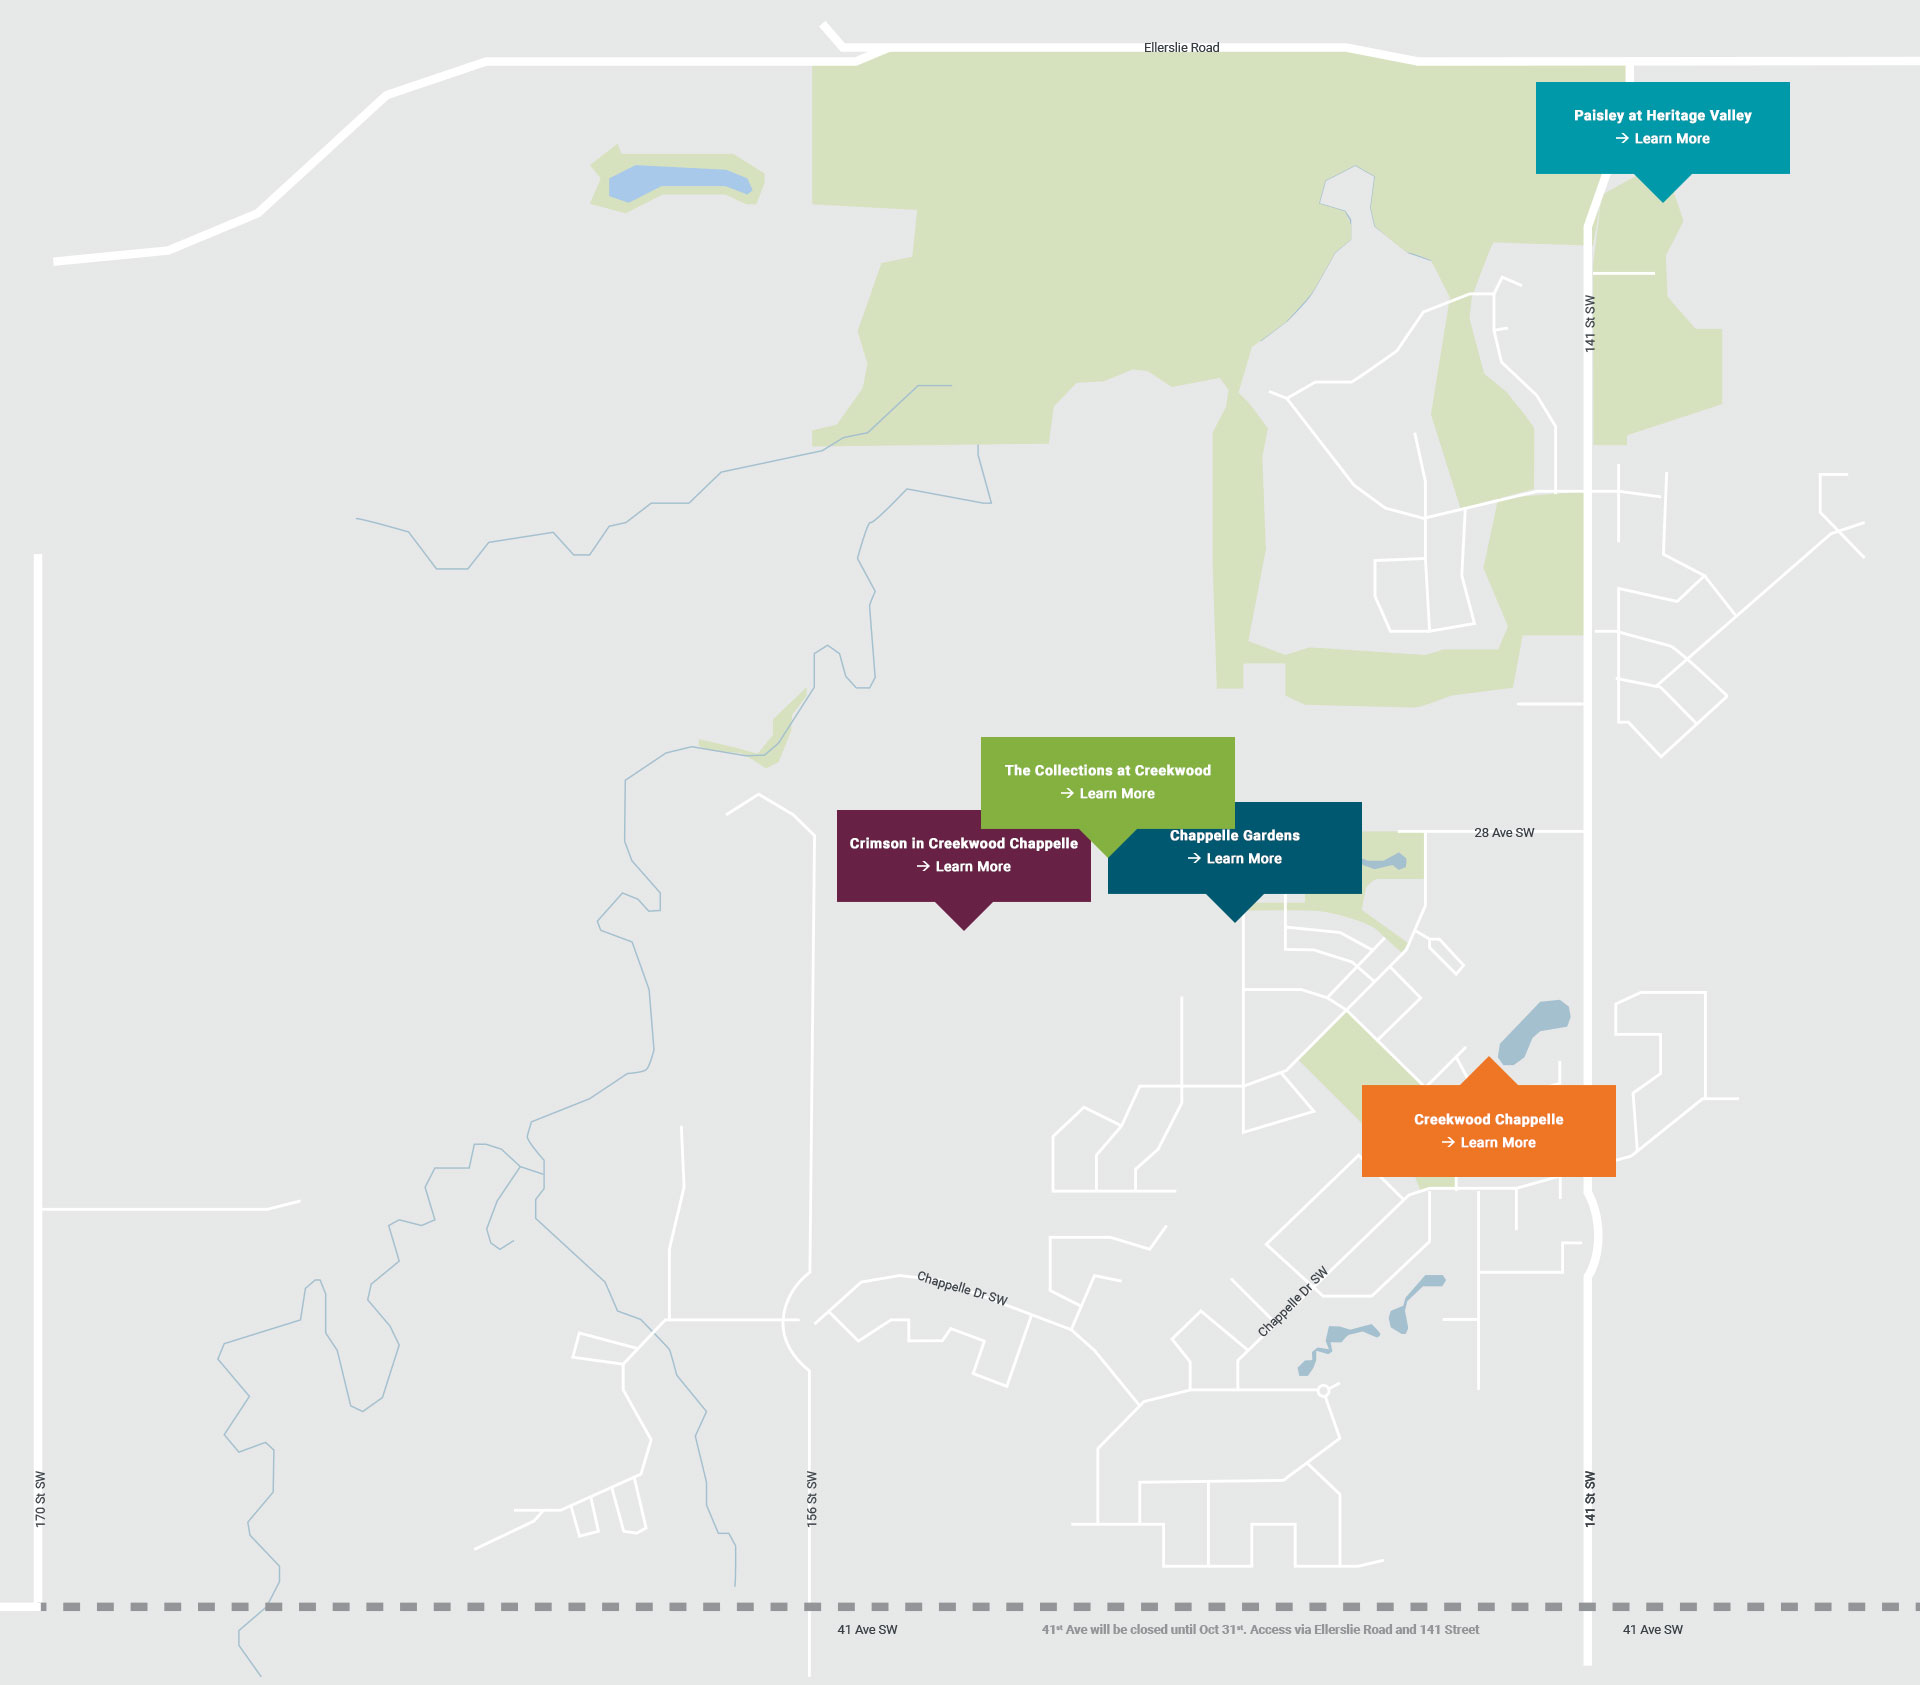
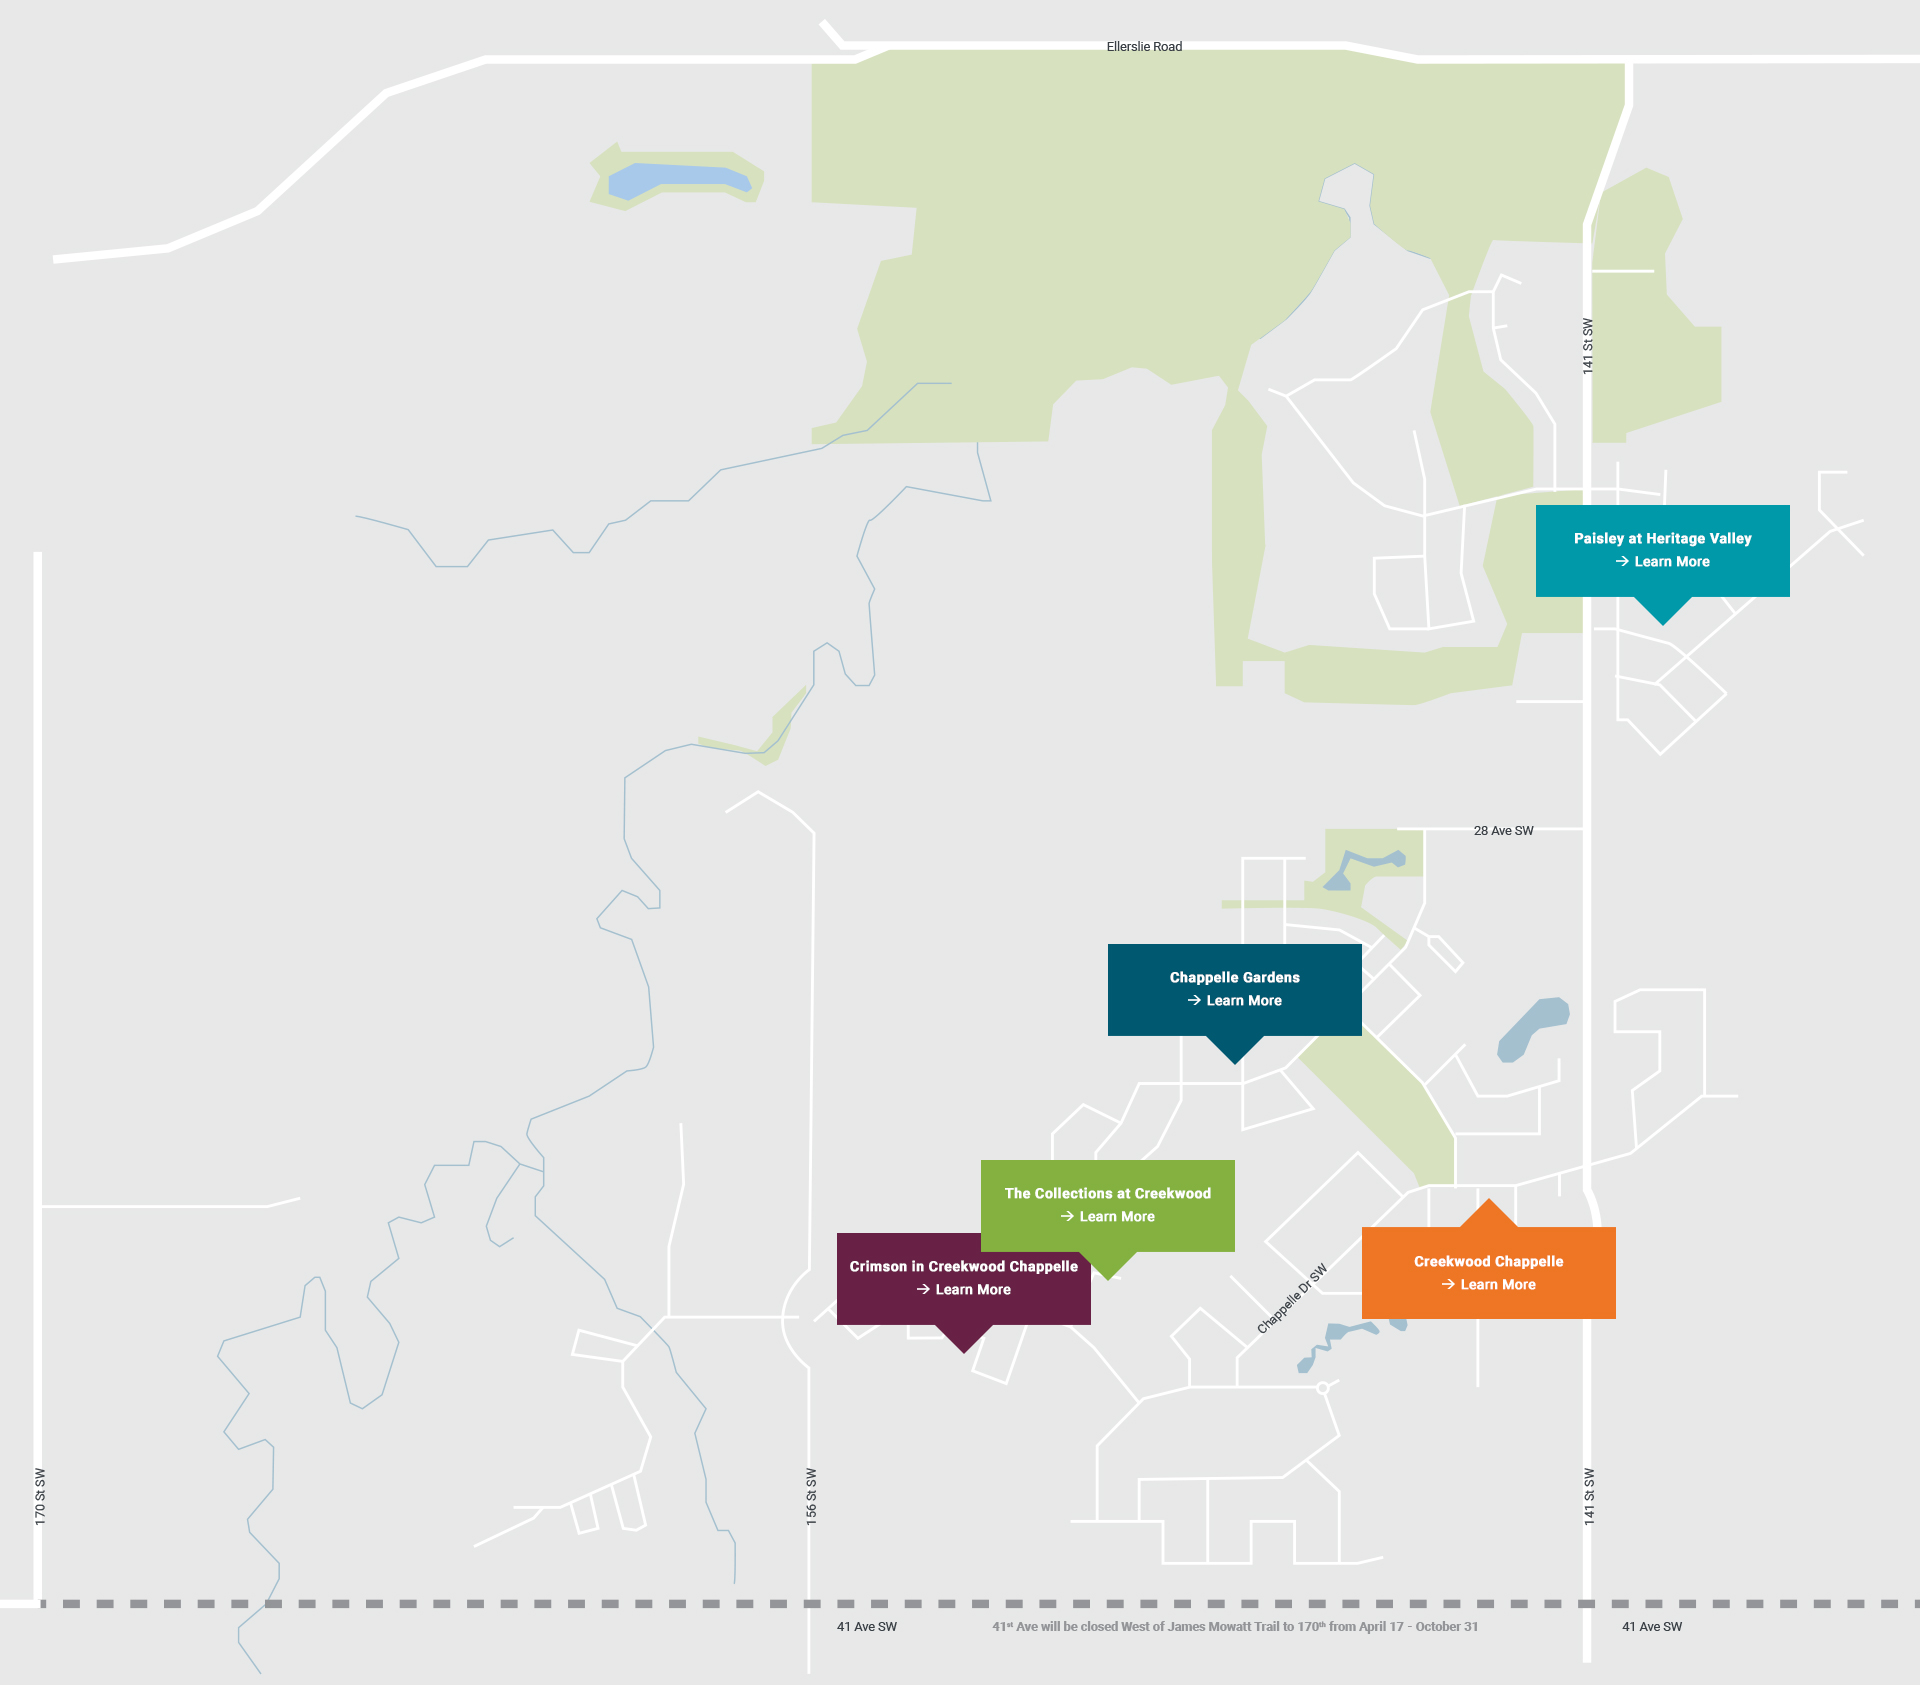
edit map and coordinates, SEO updates

diff --git a/Content/main.min.css b/Content/main.min.css
@@ -1,0 +1,1 @@
+body{font-family:'Roboto',sans-serif}.position-rel{position:relative}.position-abs{position:absolute}.cursor-pointer{cursor:pointer}rect:hover.rect,polygon:hover.rect{fill:#ccc !important;opacity:.2;cursor:pointer}.color-standard{color:#005870}.learn-more-icon{display:inline-block;font-size:14px;font-weight:700}.learn-more-icon:before{font:normal normal normal 20px/1 FontAwesome;margin-right:6px;content:"";font-size:13px}.color-chappele{color:#005870}.color-collections{color:#84b140}.color-creekwood{color:#ee7624}.color-crimson{color:#692045}.color-paisley{color:#0099a9}#home h1{margin:50px auto 60px auto;font-size:32px}#home .thumbnail{border:0;border-radius:0;border-bottom-width:28px;border-bottom-style:solid}#home .thumbnail:nth-of-type(1){border-color:#005870}#home .thumbnail:nth-of-type(2){border-color:#84b140}#home .thumbnail:nth-of-type(3){border-color:#ee7624}#home .thumbnail:nth-of-type(4){border-color:#692045}#home .thumbnail:nth-of-type(5){border-color:#0099a9}#home .thumbnail p{margin:40px auto 55px auto;text-align:center}#home .thumbnail p a{font-size:14px;font-weight:700}#home .thumbnail:hover p span{cursor:pointer;text-decoration:underline}#home .overlay{position:absolute;top:8%;left:2%;right:0}#home .overlay h1{color:#fff;font-size:30px;line-height:30px;font-weight:900;text-align:center}#map h1,#communities h1{font-size:32px;font-weight:300;margin:40px auto 20px auto}#communities{margin-bottom:50px}#communities .list-communities .row{margin-top:30px}#communities .list-communities .img-responsive{margin:0 auto}#communities .list-communities .content .title{font-weight:500;font-size:20px;color:#24262b;margin-top:10px;margin-bottom:5px}#communities .list-communities .content .details{font-size:14px;font-weight:300;color:#24262b}@media(min-width:768px){#home .overlay{top:10%;left:6%}#home .overlay h1{font-size:35px;line-height:35px;text-align:left}}@media(min-width:992px){#home .overlay{top:10%;left:6%}#home .overlay h1{font-size:45px;line-height:45px}#communities .list-communities .content-right{padding-left:20px}}@media(min-width:1200px){#home .overlay{top:15%;left:6%}#home .overlay h1{font-size:65px;line-height:65px}}

diff --git a/Content/navbar.min.css b/Content/navbar.min.css
@@ -1,0 +1,1 @@
+.navbar{margin-bottom:0}.navbar-brand{float:left;height:84px;padding:25px 15px;font-size:18px;line-height:20px}.navbar-default{background-color:#005870;border:0;min-height:84px}.navbar-default .navbar-nav>li>a{font-size:16px;padding:15px 20px;font-weight:900;color:#fff;text-align:center}.navbar-default .navbar-nav>li>a:hover{color:#000;background-color:transparent}.navbar-default .navbar-nav>li.active>a,.navbar-default .navbar-nav>li.active>a:hover{background-color:transparent;color:#fff}.navbar-default .navbar-nav>li.active>a:hover{color:#000}@media(min-width:768px){.navbar-default{padding-right:80px;padding-left:40px}.navbar-default .navbar-nav>li>a,.navbar-default .navbar-nav>li>a:hover{font-size:14px;padding:32px 20px;text-align:left}}@media(min-width:1200px){.navbar-default{padding-right:150px;padding-left:80px}}

diff --git a/Content/grid.min.css b/Content/grid.min.css
@@ -1,0 +1,1 @@
+.col-xs-15,.col-sm-15,.col-md-15,.col-lg-15{position:relative;min-height:1px;padding-right:15px;padding-left:15px}.col-xs-15{-webkit-box-flex:0;-webkit-flex:0 0 20%;-ms-flex:0 0 20%;flex:0 0 20%;max-width:20%}@media(min-width:768px){.col-sm-15{-webkit-box-flex:0;-webkit-flex:0 0 20%;-ms-flex:0 0 20%;flex:0 0 20%;max-width:20%}}@media(min-width:992px){.col-md-15{-webkit-box-flex:0;-webkit-flex:0 0 20%;-ms-flex:0 0 20%;flex:0 0 20%;max-width:20%}}@media(min-width:1200px){.col-lg-15{-webkit-box-flex:0;-webkit-flex:0 0 20%;-ms-flex:0 0 20%;flex:0 0 20%;max-width:20%}}

diff --git a/Scripts/main.min.js b/Scripts/main.min.js
@@ -1,0 +1,1 @@
+$(document).ready(function(){$(".rect").click(function(){var t=$(this).data("anchor"),n=[];n.Chappelle="https://alberta.brookfieldresidential.com/edmonton/chappelle-gardens/";n.Collections="http://livethecollections.com/";n.Creekwood="http://www.lifeincreekwood.com/";n.Paisley="https://alberta.brookfieldresidential.com/edmonton/paisley-at-heritage-valley/?utm_source=redirects&utm_medium=138&utm_campaign=301_Redirects";n.Crimson="http://crimsonincreekwood.qualicocommunitiesedmonton.com/";location.assign(n[t])})});
